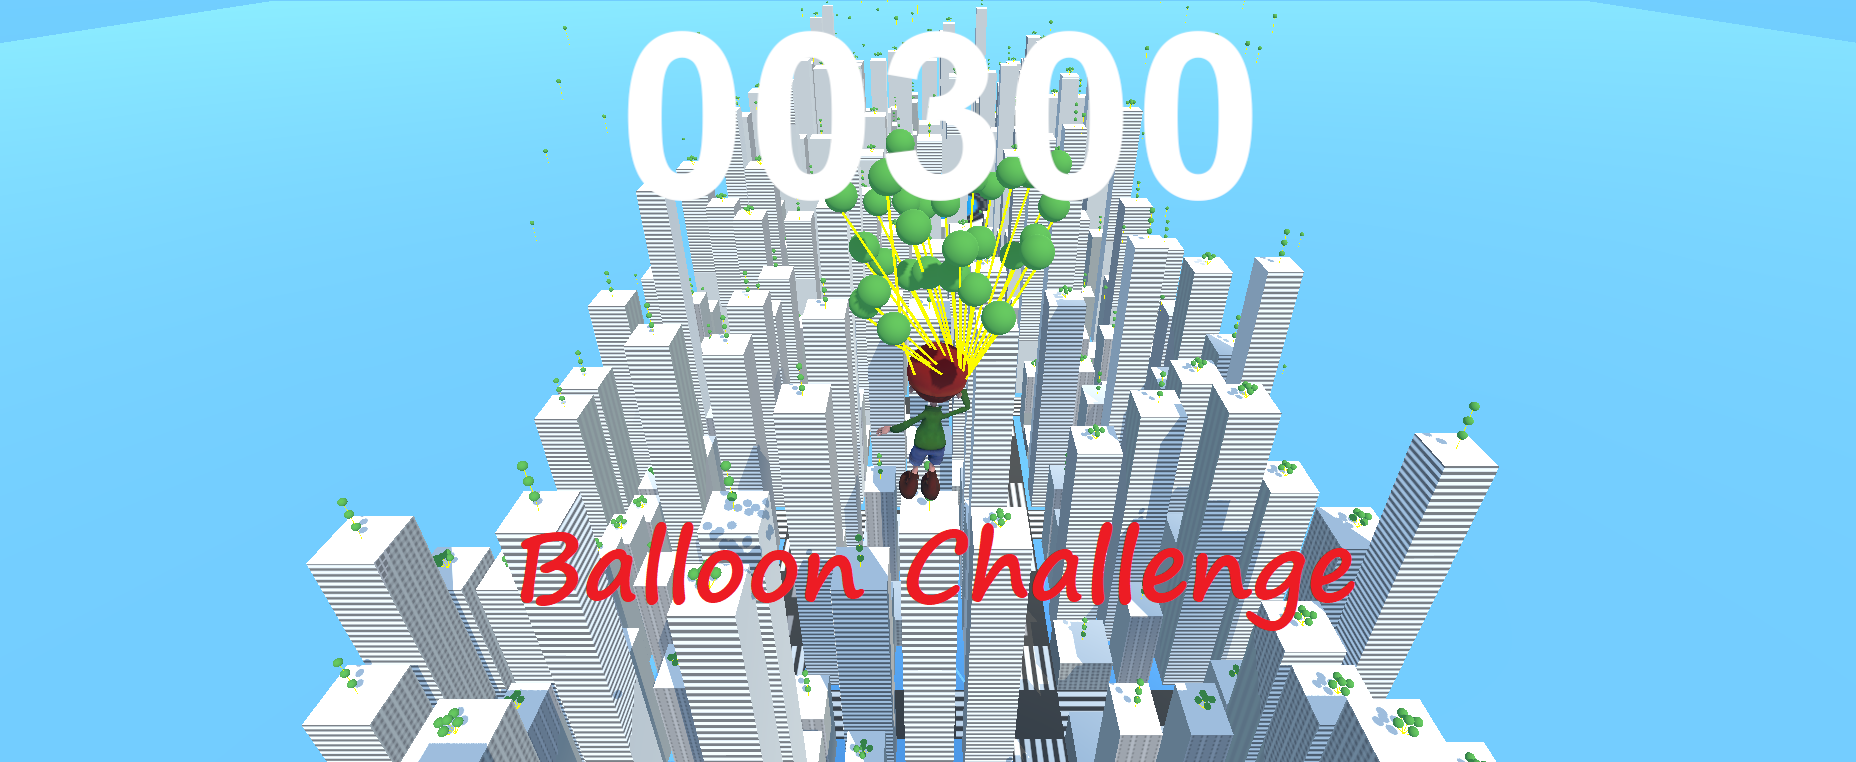
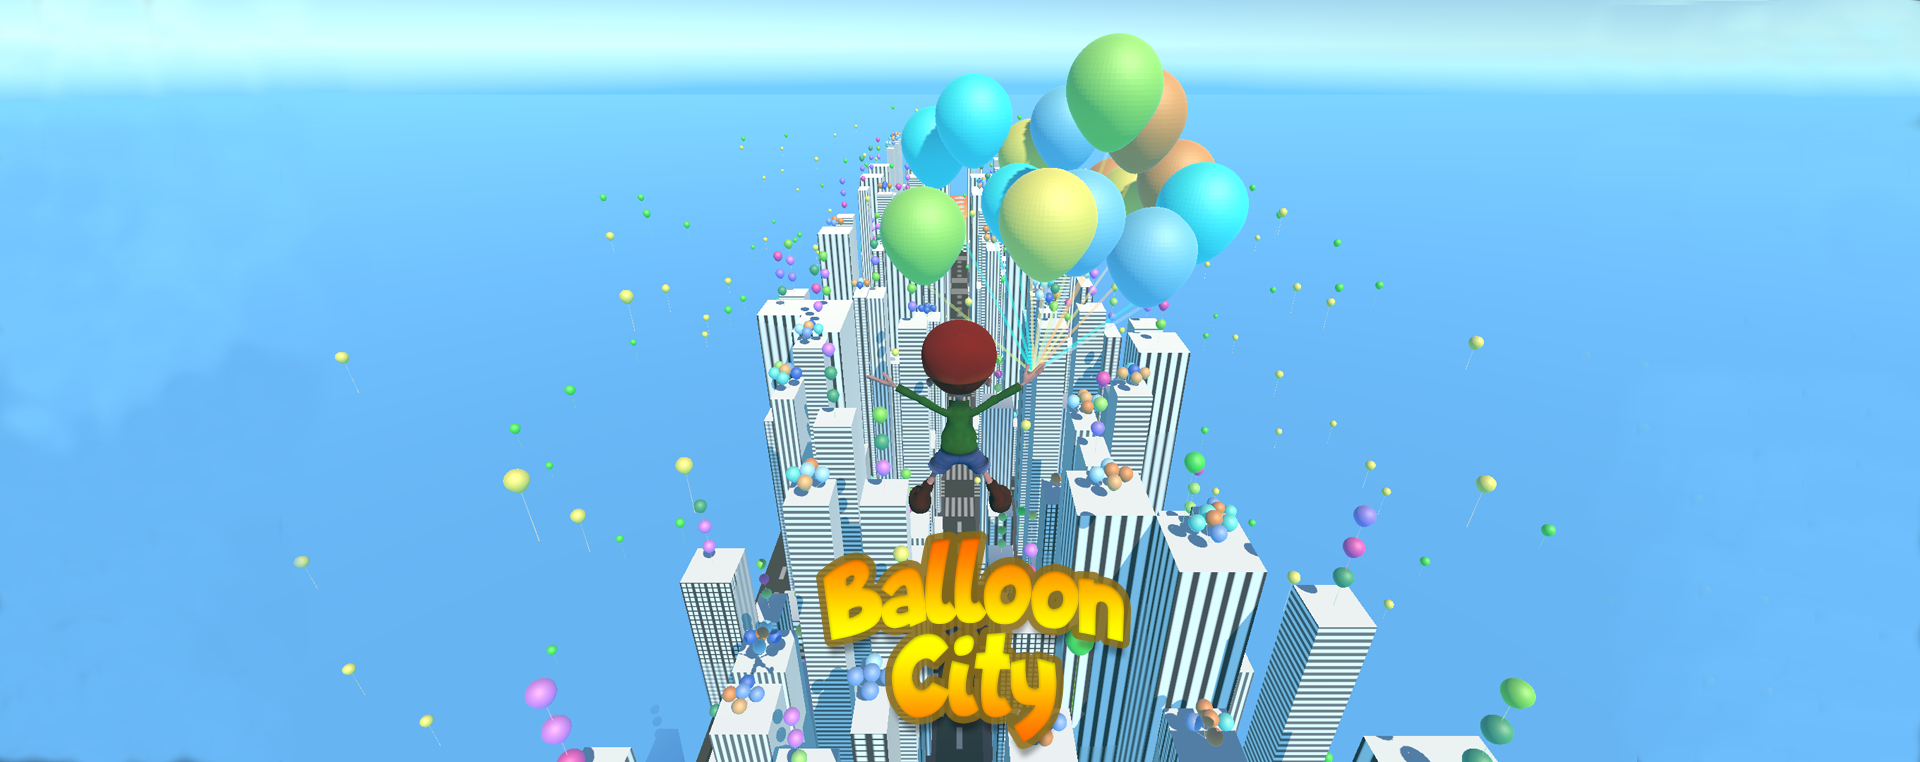
RP-20: Updated Balloon Challenge to Balloon City & changed game images.

diff --git a/index.html b/index.html
@@ -30,7 +30,7 @@
                 </div>
                 <div class="section-text">
                     <span>Rasterplay</span> is a game development studio that focuses on developing fun-packed games for mobile platforms. <span>Rasterplay</span> partners with various established publishers to provide game enthusiasts with hit games
-                    such as <span>Balloon Challenge and Ball Frenzy</span>.
+                    such as <span>Balloon City</span>.
                 </div>
             </div>
         </div>
@@ -40,7 +40,7 @@
         <div class="container">
             <div class="section-content">
                 <div class="section-title">
-                    <span>Balloon Challenge</span> is a hypercasual balloon game
+                    <span>Balloon City</span> is a hypercasual balloon game
                 </div>
             </div>
         </div>

diff --git a/css/main.css b/css/main.css
@@ -54,7 +54,7 @@ body {
 }
 
 .games-section .section-title {
-    color: #fa1d1d;
+    color: #ffdd44;
     margin-top: 50px;
 }
 
